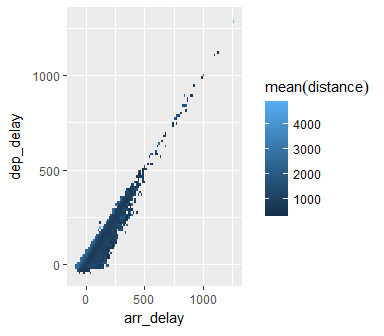
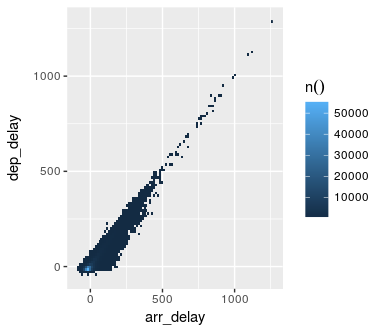
Prepare for release

diff --git a/README.md b/README.md
@@ -1,8 +1,6 @@
 dbplot
 ================
 
-<img src="tools/readme/logo.png" align="right" width = 300 height = 250>
-
 [![Build Status](https://travis-ci.org/edgararuiz/dbplot.svg?branch=master)](https://travis-ci.org/edgararuiz/dbplot) [![CRAN\_Status\_Badge](http://www.r-pkg.org/badges/version/dbplot)](http://cran.r-project.org/package=dbplot) ![CRAN downloads](https://cranlogs.r-pkg.org/badges/grand-total/dbplot)
 
 
@@ -17,7 +15,6 @@ dbplot
     -   [Boxplot](#boxplot)
 -   [Calculation functions](#calculation-functions)
 -   [`db_bin()`](#db_bin)
-
 
 
 Leverages `dplyr` to process the calculations of a plot inside a database. This package provides helper functions that abstract the work at three levels:
@@ -52,10 +49,7 @@ In addition to database connections, the functions work with `sparklyr`. A Spark
 
 ``` r
 library(sparklyr)
-
-conf <- spark_config()
 sc <- spark_connect(master = "local", version = "2.1.0")
-
 spark_flights <- copy_to(sc, nycflights13::flights, "flights")
 ```
 
@@ -73,7 +67,7 @@ spark_flights %>%
   dbplot_histogram(sched_dep_time)
 ```
 
-<img src="tools/readme/unnamed-chunk-3-1.png" style="display: block; margin: auto;" />
+<img src="README_files/figure-markdown_github/unnamed-chunk-4-1.png" style="display: block; margin: auto;" />
 
 Use `binwidth` to fix the bin size
 
@@ -82,7 +76,7 @@ spark_flights %>%
   dbplot_histogram(sched_dep_time, binwidth = 200)
 ```
 
-<img src="tools/readme/unnamed-chunk-4-1.png" style="display: block; margin: auto;" />
+<img src="README_files/figure-markdown_github/unnamed-chunk-5-1.png" style="display: block; margin: auto;" />
 
 Because it outputs a `ggplot2` object, more customization can be done
 
@@ -93,7 +87,7 @@ spark_flights %>%
   theme_bw()
 ```
 
-<img src="tools/readme/unnamed-chunk-5-1.png" style="display: block; margin: auto;" />
+<img src="README_files/figure-markdown_github/unnamed-chunk-6-1.png" style="display: block; margin: auto;" />
 
 ### Raster
 
@@ -109,38 +103,38 @@ spark_flights %>%
   dbplot_raster(arr_delay, dep_delay) 
 ```
 
-<img src="tools/readme/unnamed-chunk-6-1.png" style="display: block; margin: auto;" />
+<img src="README_files/figure-markdown_github/unnamed-chunk-7-1.png" style="display: block; margin: auto;" />
 
 -   Pass an aggregation formula that can run inside the database
 
 ``` r
 spark_flights %>%
   filter(!is.na(arr_delay)) %>%
-  dbplot_raster(arr_delay, dep_delay, mean(distance)) 
+  dbplot_raster(arr_delay, dep_delay, mean(distance, na.rm = TRUE)) 
 ```
 
-<img src="tools/readme/unnamed-chunk-7-1.png" style="display: block; margin: auto;" />
+<img src="README_files/figure-markdown_github/unnamed-chunk-8-1.png" style="display: block; margin: auto;" />
 
 -   Increase or decrease for more, or less, definition. The `resolution` argument controls that, it defaults to 100
 
 ``` r
 spark_flights %>%
   filter(!is.na(arr_delay)) %>%
-  dbplot_raster(arr_delay, dep_delay, mean(distance), resolution = 500)
+  dbplot_raster(arr_delay, dep_delay, mean(distance, na.rm = TRUE), resolution = 500)
 ```
 
-<img src="tools/readme/unnamed-chunk-8-1.png" style="display: block; margin: auto;" />
+<img src="README_files/figure-markdown_github/unnamed-chunk-9-1.png" style="display: block; margin: auto;" />
 
 ### Bar Plot
 
--   `dbplot_bar()` defaults to a tally of each value in a discrete variable
+-   `dbplot_bar()` defaults to a tally()of each value in a discrete variable
 
 ``` r
 spark_flights %>%
   dbplot_bar(origin)
 ```
 
-<img src="tools/readme/unnamed-chunk-9-1.png" style="display: block; margin: auto;" />
+<img src="README_files/figure-markdown_github/unnamed-chunk-10-1.png" style="display: block; margin: auto;" />
 
 -   Pass a formula that will be operated for each value in the discrete variable
 
@@ -149,18 +143,21 @@ spark_flights %>%
   dbplot_bar(origin, mean(dep_delay))
 ```
 
-<img src="tools/readme/unnamed-chunk-10-1.png" style="display: block; margin: auto;" />
+    ## Warning: Missing values are always removed in SQL.
+    ## Use `AVG(x, na.rm = TRUE)` to silence this warning
+
+<img src="README_files/figure-markdown_github/unnamed-chunk-11-1.png" style="display: block; margin: auto;" />
 
 ### Line plot
 
--   `dbplot_line()` defaults to a tally of each value in a discrete variable
+-   `dbplot_line()` defaults to a tally()of each value in a discrete variable
 
 ``` r
 spark_flights %>%
   dbplot_line(month)
 ```
 
-<img src="tools/readme/unnamed-chunk-11-1.png" style="display: block; margin: auto;" />
+<img src="README_files/figure-markdown_github/unnamed-chunk-12-1.png" style="display: block; margin: auto;" />
 
 -   Pass a formula that will be operated for each value in the discrete variable
 
@@ -169,7 +166,10 @@ spark_flights %>%
   dbplot_line(month, mean(dep_delay))
 ```
 
-<img src="tools/readme/unnamed-chunk-12-1.png" style="display: block; margin: auto;" />
+    ## Warning: Missing values are always removed in SQL.
+    ## Use `AVG(x, na.rm = TRUE)` to silence this warning
+
+<img src="README_files/figure-markdown_github/unnamed-chunk-13-1.png" style="display: block; margin: auto;" />
 
 ### Boxplot
 
@@ -180,7 +180,7 @@ spark_flights %>%
   dbplot_boxplot(origin, dep_delay)
 ```
 
-<img src="tools/readme/unnamed-chunk-13-1.png" style="display: block; margin: auto;" />
+<img src="README_files/figure-markdown_github/unnamed-chunk-14-1.png" style="display: block; margin: auto;" />
 
 Calculation functions
 ---------------------
@@ -198,18 +198,18 @@ spark_flights %>%
 ```
 
     ## # A tibble: 28 x 2
-    ##     arr_delay  count
-    ##         <dbl>  <dbl>
-    ##  1   4.533333  79784
-    ##  2 -40.733333 207999
-    ##  3  95.066667   7890
-    ##  4  49.800000  19063
-    ##  5 819.333333      8
-    ##  6 140.333333   3746
-    ##  7 321.400000    232
-    ##  8 230.866667    921
-    ##  9 -86.000000   5325
-    ## 10 185.600000   1742
+    ##    arr_delay     count
+    ##        <dbl>     <dbl>
+    ##  1      4.53  79784   
+    ##  2   - 40.7  207999   
+    ##  3     95.1    7890   
+    ##  4     49.8   19063   
+    ##  5    819         8.00
+    ##  6    140      3746   
+    ##  7    321       232   
+    ##  8    231       921   
+    ##  9   - 86.0    5325   
+    ## 10    186      1742   
     ## # ... with 18 more rows
 
 The data can be piped to a plot
@@ -222,7 +222,7 @@ spark_flights %>%
   geom_col(aes(arr_delay, count, fill = count))
 ```
 
-<img src="tools/readme/unnamed-chunk-15-1.png" style="display: block; margin: auto;" />
+<img src="README_files/figure-markdown_github/unnamed-chunk-16-1.png" style="display: block; margin: auto;" />
 
 `db_bin()`
 ----------
@@ -233,41 +233,44 @@ Uses 'rlang' to build the formula needed to create the bins of a numeric variabl
 db_bin(var)
 ```
 
-    ## (((max(var) - min(var))/(30)) * ifelse((as.integer(floor(((var) - 
-    ##     min(var))/((max(var) - min(var))/(30))))) == (30), (as.integer(floor(((var) - 
-    ##     min(var))/((max(var) - min(var))/(30))))) - 1, (as.integer(floor(((var) - 
-    ##     min(var))/((max(var) - min(var))/(30))))))) + min(var)
+    ## (((max(var, na.rm = TRUE) - min(var, na.rm = TRUE))/(30)) * ifelse((as.integer(floor(((var) - 
+    ##     min(var, na.rm = TRUE))/((max(var, na.rm = TRUE) - min(var, 
+    ##     na.rm = TRUE))/(30))))) == (30), (as.integer(floor(((var) - 
+    ##     min(var, na.rm = TRUE))/((max(var, na.rm = TRUE) - min(var, 
+    ##     na.rm = TRUE))/(30))))) - 1, (as.integer(floor(((var) - min(var, 
+    ##     na.rm = TRUE))/((max(var, na.rm = TRUE) - min(var, na.rm = TRUE))/(30))))))) + 
+    ##     min(var, na.rm = TRUE)
 
 ``` r
 spark_flights %>%
   group_by(x = !! db_bin(arr_delay)) %>%
-  tally
+  tally()
 ```
 
     ## # Source:   lazy query [?? x 2]
     ## # Database: spark_connection
-    ##             x      n
-    ##         <dbl>  <dbl>
-    ##  1   4.533333  79784
-    ##  2 -40.733333 207999
-    ##  3  95.066667   7890
-    ##  4  49.800000  19063
-    ##  5 819.333333      8
-    ##  6 140.333333   3746
-    ##  7 321.400000    232
-    ##  8 230.866667    921
-    ##  9 -86.000000   5325
-    ## 10 185.600000   1742
+    ##          x         n
+    ##      <dbl>     <dbl>
+    ##  1    4.53  79784   
+    ##  2 - 40.7  207999   
+    ##  3   95.1    7890   
+    ##  4   49.8   19063   
+    ##  5  819         8.00
+    ##  6  140      3746   
+    ##  7  321       232   
+    ##  8  231       921   
+    ##  9 - 86.0    5325   
+    ## 10  186      1742   
     ## # ... with more rows
 
 ``` r
 spark_flights %>%
   filter(!is.na(arr_delay)) %>%
   group_by(x = !! db_bin(arr_delay)) %>%
-  tally %>%
+  tally()%>%
   collect %>%
   ggplot() +
   geom_col(aes(x, n))
 ```
 
-<img src="tools/readme/unnamed-chunk-18-1.png" style="display: block; margin: auto;" />
+<img src="README_files/figure-markdown_github/unnamed-chunk-19-1.png" style="display: block; margin: auto;" />

diff --git a/revdep/README.md b/revdep/README.md
@@ -4,24 +4,20 @@
 
 |setting  |value                        |
 |:--------|:----------------------------|
-|version  |R version 3.4.2 (2017-09-28) |
-|system   |x86_64, mingw32              |
-|ui       |RStudio (1.2.177)            |
+|version  |R version 3.4.3 (2017-11-30) |
+|system   |x86_64, linux-gnu            |
+|ui       |RStudio (1.1.383)            |
 |language |(EN)                         |
-|collate  |English_United States.1252   |
-|tz       |America/Chicago              |
-|date     |2017-11-27                   |
+|collate  |en_US.UTF-8                  |
+|tz       |Zulu                         |
+|date     |2018-01-05                   |
 
 ## Packages
 
-|package  |*  |version    |date       |source                       |
-|:--------|:--|:----------|:----------|:----------------------------|
-|dbplot   |*  |0.1.0.9000 |2017-11-27 |local (edgararuiz/dbplot@NA) |
-|dbplyr   |   |1.1.0      |2017-06-27 |CRAN (R 3.4.2)               |
-|dplyr    |*  |0.7.4      |2017-09-28 |CRAN (R 3.4.2)               |
-|ggplot2  |   |2.2.1      |2016-12-30 |CRAN (R 3.4.2)               |
-|rlang    |*  |0.1.4      |2017-11-05 |CRAN (R 3.4.2)               |
-|testthat |   |1.0.2      |2016-04-23 |CRAN (R 3.4.2)               |
+|package |*  |version |date       |source                       |
+|:-------|:--|:-------|:----------|:----------------------------|
+|dbplot  |*  |0.2.0   |2018-01-05 |local (edgararuiz/dbplot@NA) |
+|dbplyr  |   |1.2.0   |2018-01-03 |cran (@1.2.0)                |
 
 # Check results
 

diff --git a/revdep/problems.md b/revdep/problems.md
@@ -4,24 +4,20 @@
 
 |setting  |value                        |
 |:--------|:----------------------------|
-|version  |R version 3.4.2 (2017-09-28) |
-|system   |x86_64, mingw32              |
-|ui       |RStudio (1.2.177)            |
+|version  |R version 3.4.3 (2017-11-30) |
+|system   |x86_64, linux-gnu            |
+|ui       |RStudio (1.1.383)            |
 |language |(EN)                         |
-|collate  |English_United States.1252   |
-|tz       |America/Chicago              |
-|date     |2017-11-27                   |
+|collate  |en_US.UTF-8                  |
+|tz       |Zulu                         |
+|date     |2018-01-05                   |
 
 ## Packages
 
-|package  |*  |version    |date       |source                       |
-|:--------|:--|:----------|:----------|:----------------------------|
-|dbplot   |*  |0.1.0.9000 |2017-11-27 |local (edgararuiz/dbplot@NA) |
-|dbplyr   |   |1.1.0      |2017-06-27 |CRAN (R 3.4.2)               |
-|dplyr    |*  |0.7.4      |2017-09-28 |CRAN (R 3.4.2)               |
-|ggplot2  |   |2.2.1      |2016-12-30 |CRAN (R 3.4.2)               |
-|rlang    |*  |0.1.4      |2017-11-05 |CRAN (R 3.4.2)               |
-|testthat |   |1.0.2      |2016-04-23 |CRAN (R 3.4.2)               |
+|package |*  |version |date       |source                       |
+|:-------|:--|:-------|:----------|:----------------------------|
+|dbplot  |*  |0.2.0   |2018-01-05 |local (edgararuiz/dbplot@NA) |
+|dbplyr  |   |1.2.0   |2018-01-03 |cran (@1.2.0)                |
 
 # Check results
 

diff --git a/cran-comments.md b/cran-comments.md
@@ -1,9 +1,10 @@
 ## Release summary
 
-Patch to fix a bug found after the release.  This particular but is critical enough for me to go forward and send a new submission so soon after the initial release. 
+Mostly bug fixes. The main motivation was to address warnings issued by the new version of 'dbplyr'.
 
 ## Test environments
-* local windows 10 install, R 3.4.2
+* local windows 10 install, R 3.4.3
+* ubuntu 16.04 with RStudio Server, R 3.4.3 
 * ubuntu 14.04 (on travis-ci)
 
 ## R CMD check results
